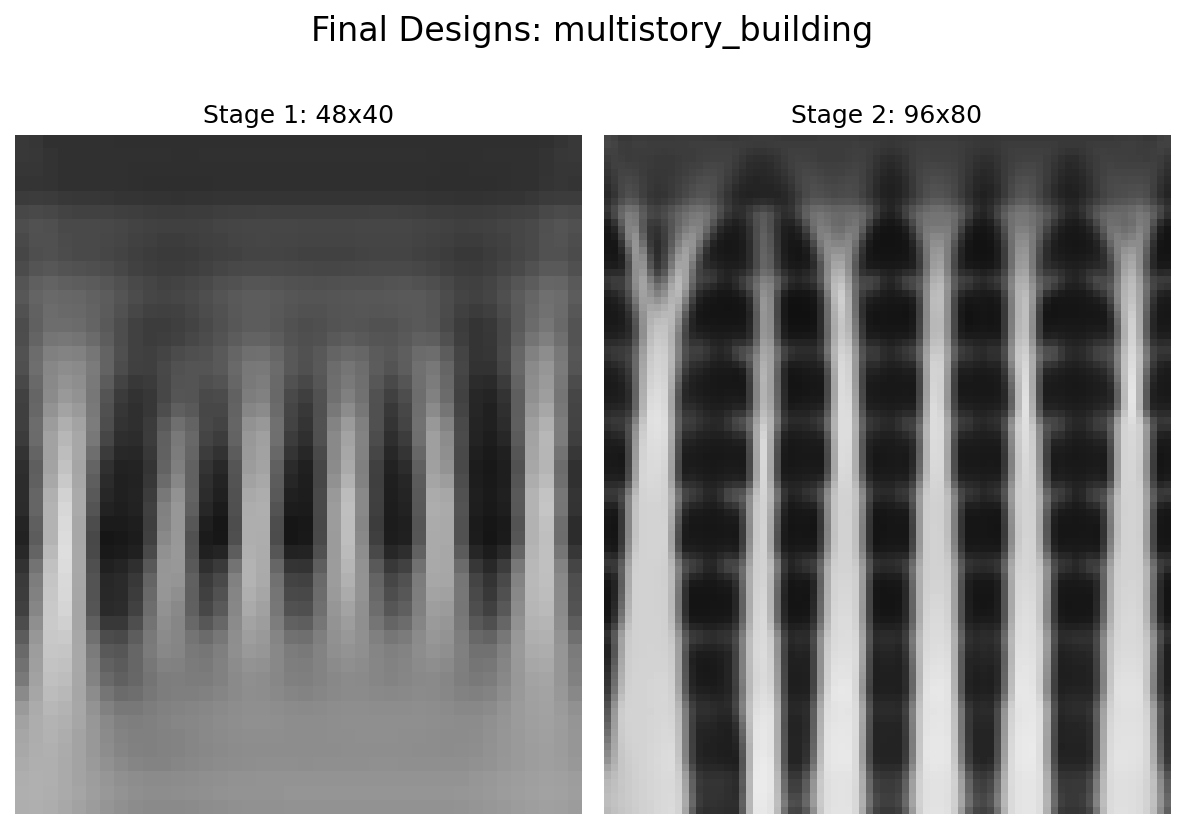
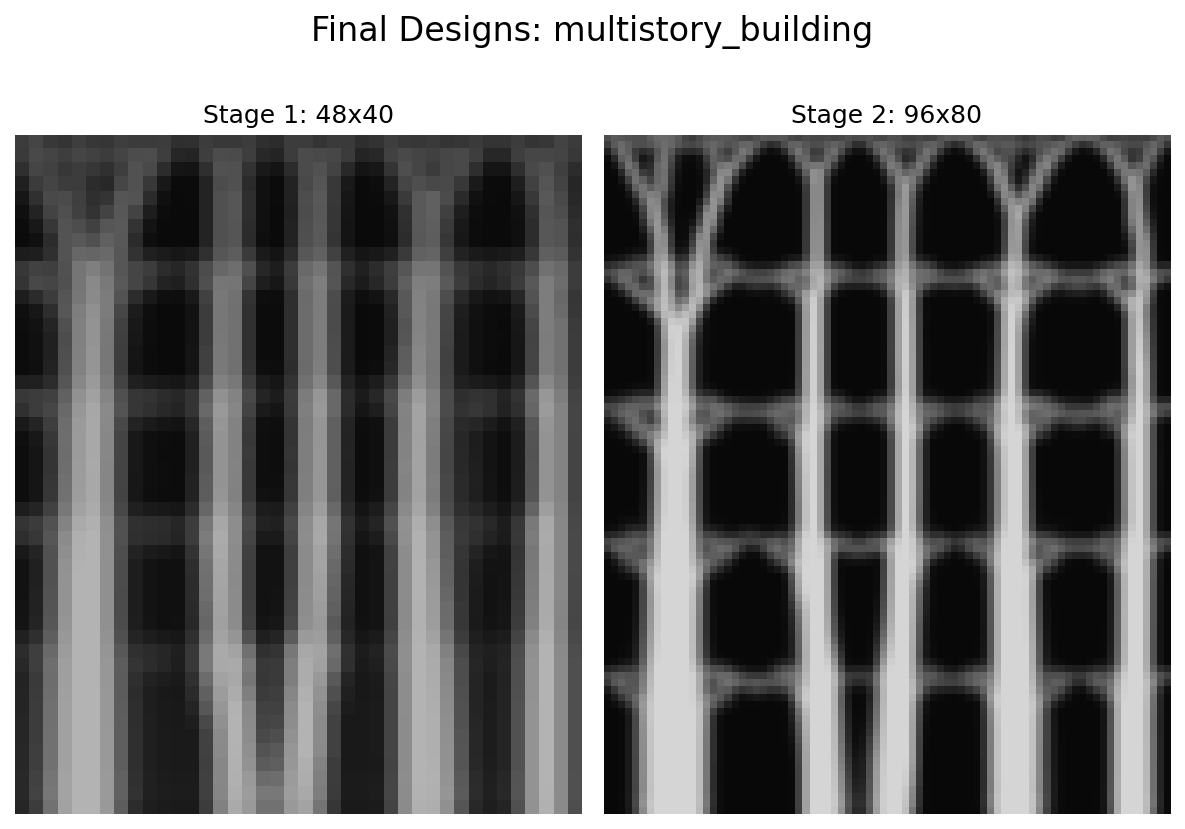
simplified adaptive train + fixed multistory definition

diff --git a/neural_structural_optimization/train.py b/neural_structural_optimization/train.py
@@ -131,7 +131,7 @@ def train_tf_optimizer(
   return optimizer_result_dataset(np.array(losses), np.array(designs),
                                   save_intermediate_designs)
 
-def train_adam(model, max_iterations, save_intermediate_designs=True):
+def train_adam(model, max_iterations, save_intermediate_designs=True, lr=1e-2):
     """ replaces original in order to use tqdm:
       train_adam = functools.partial(
       train_tf_optimizer, optimizer=tf.keras.optimizers.legacy.Adam(1e-2)) """
@@ -151,13 +151,13 @@ def train_adam(model, max_iterations, save_intermediate_designs=True):
 
         if i < max_iterations:
             grads = t.gradient(loss, tvars)
-            optimizer = tf.keras.optimizers.legacy.Adam(1e-2)
+            optimizer = tf.keras.optimizers.legacy.Adam(lr)
             optimizer.apply_gradients(zip(grads, tvars))
 
     designs = [model.env.render(x, volume_contraint=True) for x in frames]
     return optimizer_result_dataset(np.array(losses), np.array(designs), save_intermediate_designs)
 
-def train_adam_progressive(model, max_iterations, save_intermediate_designs=True):
+def train_progressive(model, max_iterations, alg=train_adam, save_intermediate_designs=True):
     """Adam training with tqdm and progressive upsampling."""
 
     ds_history = []
@@ -165,27 +165,7 @@ def train_adam_progressive(model, max_iterations, save_intermediate_designs=True
     for stage in range(model.resize_num + 1):
         print(f"\nTraining at resolution: {model.shape[1]}x{model.shape[2]}")
 
-        losses = []
-        frames = []
-
-        tvars = model.trainable_variables
-        optimizer = tf.keras.optimizers.legacy.Adam(1e-2)
-
-        for i in tqdm(range(max_iterations + 1), desc=f"Stage {stage} - Adam Optimizer"):
-            with tf.GradientTape() as t:
-                t.watch(tvars)
-                logits = model(None)
-                loss = model.loss(logits)
-
-            losses.append(loss.numpy().item())
-            frames.append(logits.numpy())
-
-            if i < max_iterations:
-                grads = t.gradient(loss, tvars)
-                optimizer.apply_gradients(zip(grads, tvars))
-
-        designs = [model.env.render(x, volume_contraint=True) for x in frames]
-        ds = optimizer_result_dataset(np.array(losses), np.array(designs), save_intermediate_designs)
+        ds = alg(model, max_iterations, save_intermediate_designs=save_intermediate_designs)
         ds_history.append(ds)
 
         # Upsample after stage if allowed

diff --git a/neural_structural_optimization/models.py b/neural_structural_optimization/models.py
@@ -125,16 +125,10 @@ class PixelModelAdaptive(Model):
       raise ValueError("No problem_params available for scaling")
     
     # update problem params
-    new_problem_params = self.problem_params.copy(
-                width=int(self.problem_params.width * self.resize_scale),
-                height=int(self.problem_params.height * self.resize_scale)
-            )
-    new_problem_params.interval = int(self.problem_params.interval * self.resize_scale)
-    if self.problem_params.num_points > 1:
-      # Scale num_points but keep it reasonable (don't scale if it's already large)
-      scaled_points = int(self.problem_params.num_points * self.resize_scale)
-      new_problem_params.num_points = min(scaled_points, 50)  # Cap at reasonable maximum
-
+    scaled_width=int(self.problem_params.width * self.resize_scale)
+    scaled_height=int(self.problem_params.height * self.resize_scale)
+    
+    new_problem_params = self.problem_params.copy(width=scaled_width, height=scaled_height)
     self.update_problem_params(new_problem_params)
 
     self.shape = (1, new_problem_params.height, new_problem_params.width)

diff --git a/neural_structural_optimization/problems.py b/neural_structural_optimization/problems.py
@@ -530,20 +530,24 @@ def staggered_points(width=32, height=32, density=0.3, interval=16,
   return problem
 
 
-def multistory_building(width=32, height=32, density=0.3, interval=16):
+def multistory_building(width=32, height=32, density=0.3, num_stories=16):
   """A multi-story building, supported from the ground."""
   normals = np.zeros((width + 1, height + 1, 2))
   normals[:, -1, Y] = 1
   normals[-1, :, X] = 1
 
   forces = np.zeros((width + 1, height + 1, 2))
-  forces[:, ::interval, Y] = -1 / width
+
+  story_height = height // num_stories
+  for story in range(0, num_stories):
+    story_y = story * story_height
+    forces[:, story_y, Y] = -1 / width
 
   problem = Problem(normals, forces, density)
   problem.name = f"multistory_building_{width}x{height}"
   return problem
 
-
+"""
 # pylint: disable=line-too-long
 PROBLEMS_BY_CATEGORY = {
     # idealized beam and cantilevers
@@ -732,3 +736,4 @@ for problem_class, problem_list in PROBLEMS_BY_CATEGORY.items():
     problem.name = name
     assert name not in PROBLEMS_BY_NAME, f'redundant name {name}'
     PROBLEMS_BY_NAME[name] = problem
+"""

diff --git a/script/run.py b/script/run.py
@@ -45,8 +45,8 @@ def main():
             problem_name = "multistory_building",
             width=50,
             height=40,
-            density=0.4,
-            interval=5
+            density=0.3,
+            num_stories=5
         )
 
         params, dynamic_kwargs = pipeline_utils.dynamic_depth_kwargs_simple(params)      
@@ -60,7 +60,7 @@ def main():
         print(f"Max iterations: {max_iterations}")
 
         model = models.PixelModelAdaptive(problem_params=params, resize_num=1)
-        ds_history = train.train_adam_progressive(model, max_iterations)
+        ds_history = train.train_progressive(model, max_iterations)
 
         # model = models.PixelModel(problem_params=params)
         # ds_history = train.train_adam(model, max_iterations)
